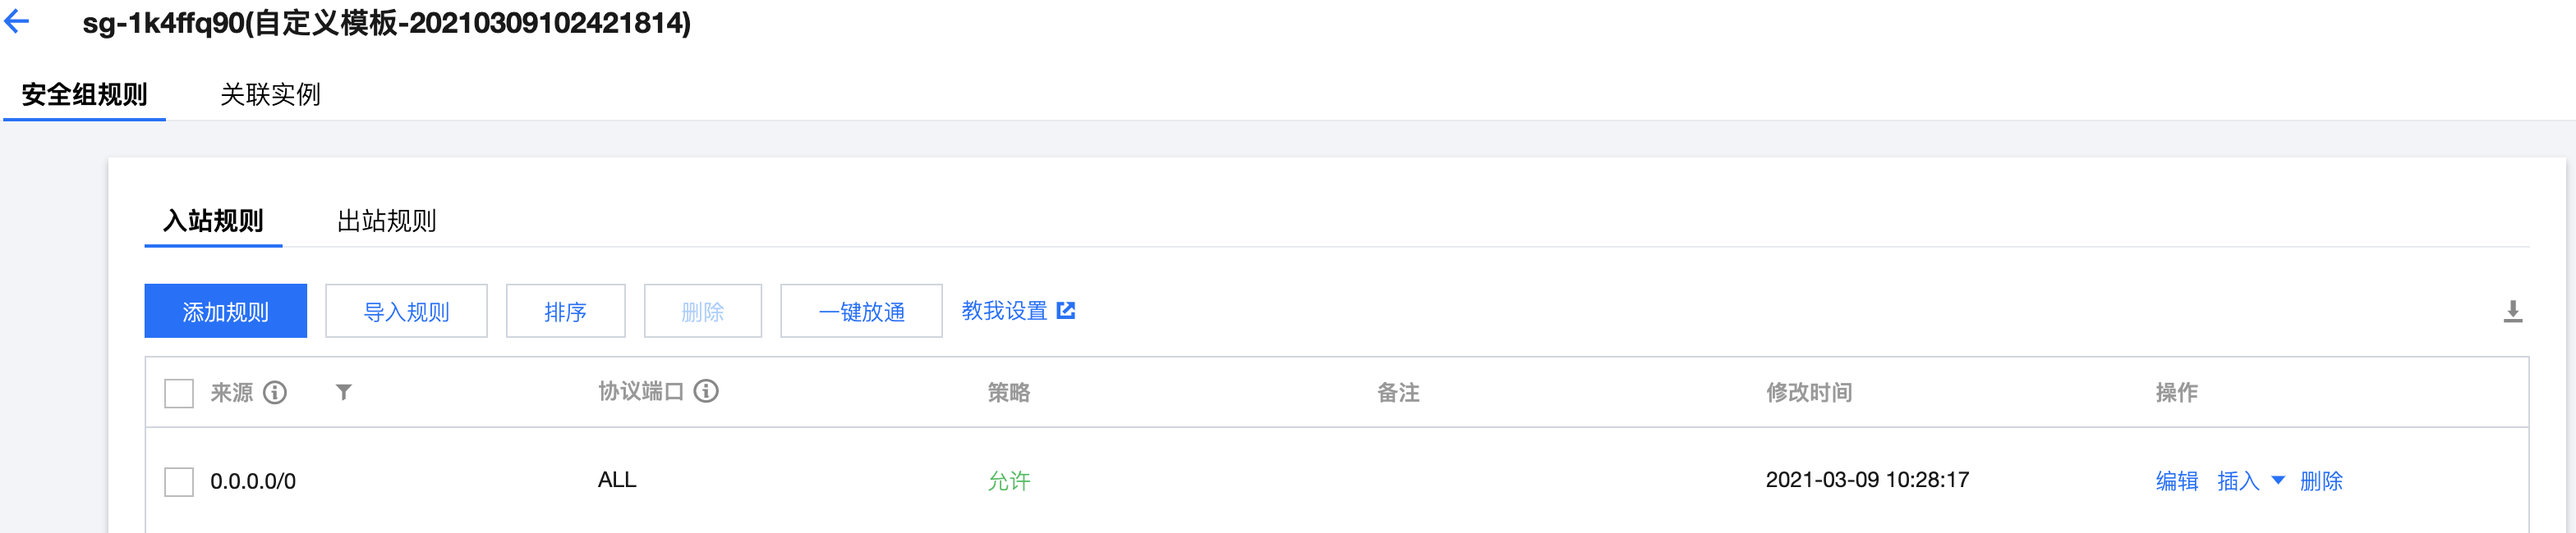
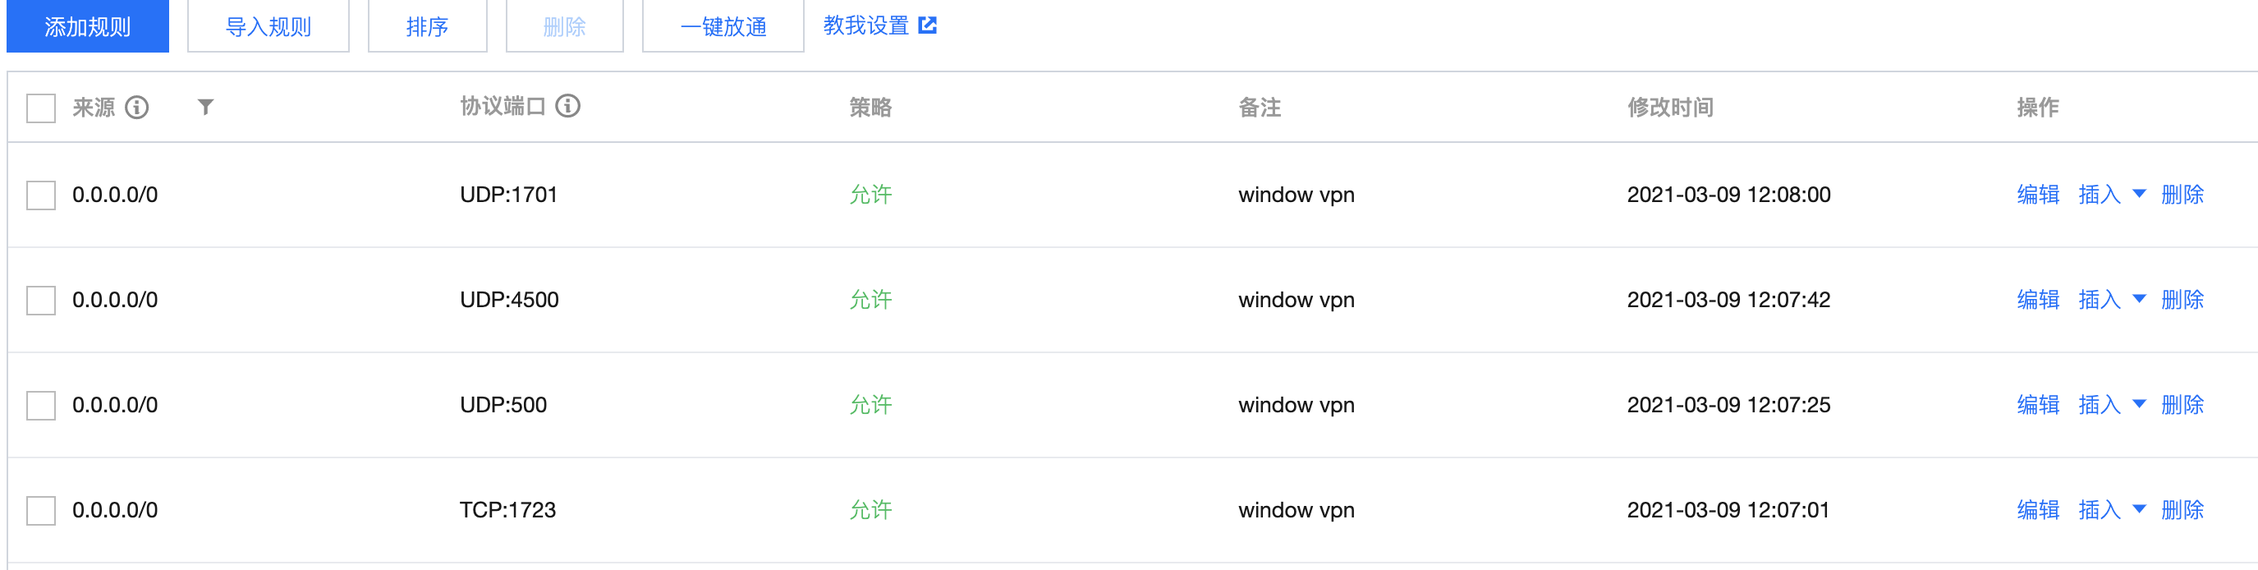
fix

diff --git a/source/_posts/Windows-Server-2012-2016搭建VPN教程.md b/source/_posts/Windows-Server-2012-2016搭建VPN教程.md
@@ -17,11 +17,11 @@ keywords:
 
 <!-- more -->
 
-需要先放通服务器安全组所有端口，以腾讯云服务器为例，如果知道哪些是VPN所需端口可以自行配置放通。
-
-以及关闭服务器的防火墙。
+需要先放通服务器安全组端口，以腾讯云服务器为例：
 
 ![](server_port.png)
+
+以及关闭服务器的防火墙。
 
 # 配置步骤
 
@@ -163,7 +163,9 @@ Web服务器角色直接点击下一步
 
 再次配置本地服务器属性
 
-选择`安全`标签页，配置允许L2TP策略选项，并填入预共享密钥，点击确定
+选择`安全`标签页，配置允许L2TP策略选项，并填入**预共享密钥**，点击确定
+
+> 务必记住该密钥，后续需要填写
 
 ![](config_33.png)
 
